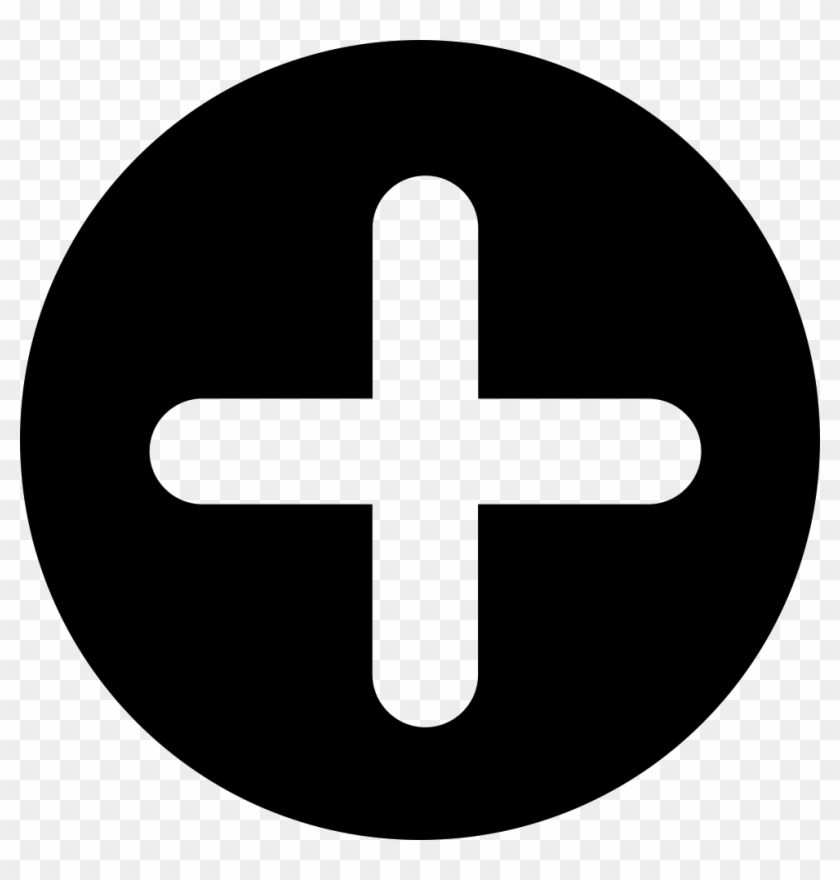
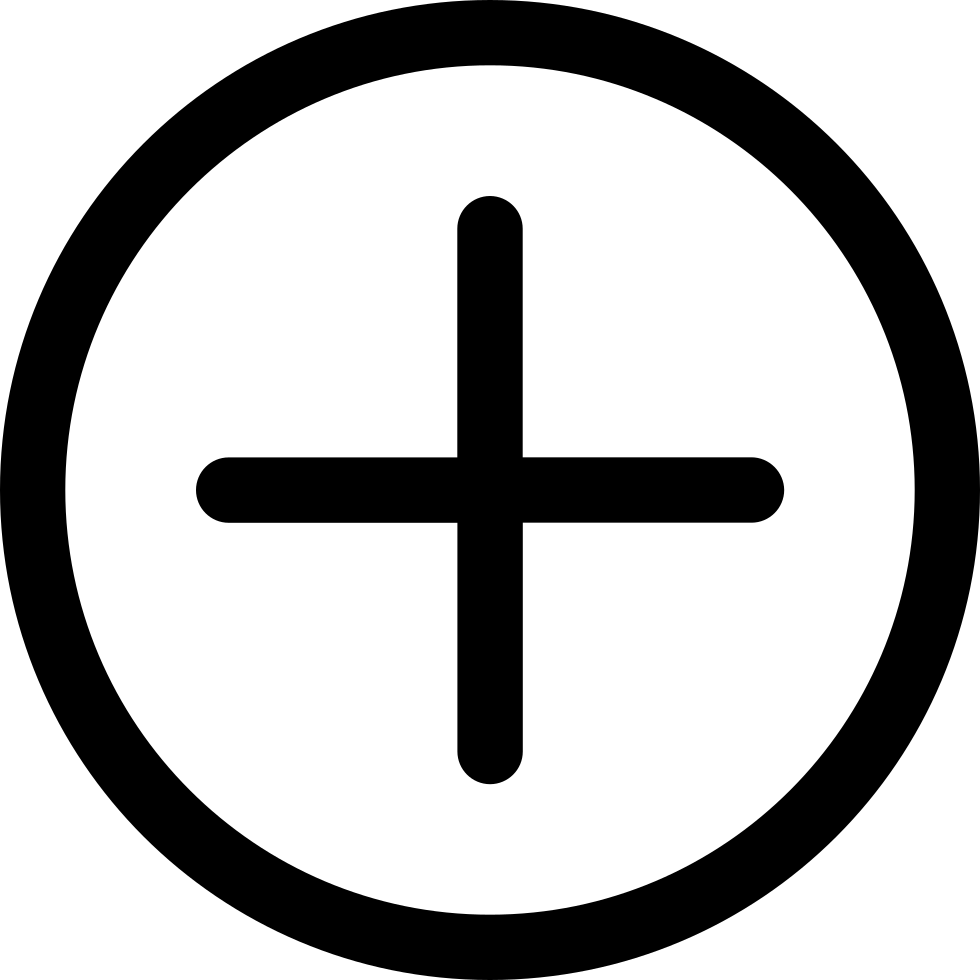
a

diff --git a/30_実装/C_G1-4-1.php b/30_実装/C_G1-4-1.php
@@ -36,3 +36,11 @@
           </div>
         </div>
       </div>
+      <!--追加ボタン-->
+      <div class="row mb-3 justify-content-center">
+            <div class="col-4">
+                <a href="C_G1-4-2.php">
+                    <img src="imaging/puls.png">
+                </a>
+            </div>
+      </div>
